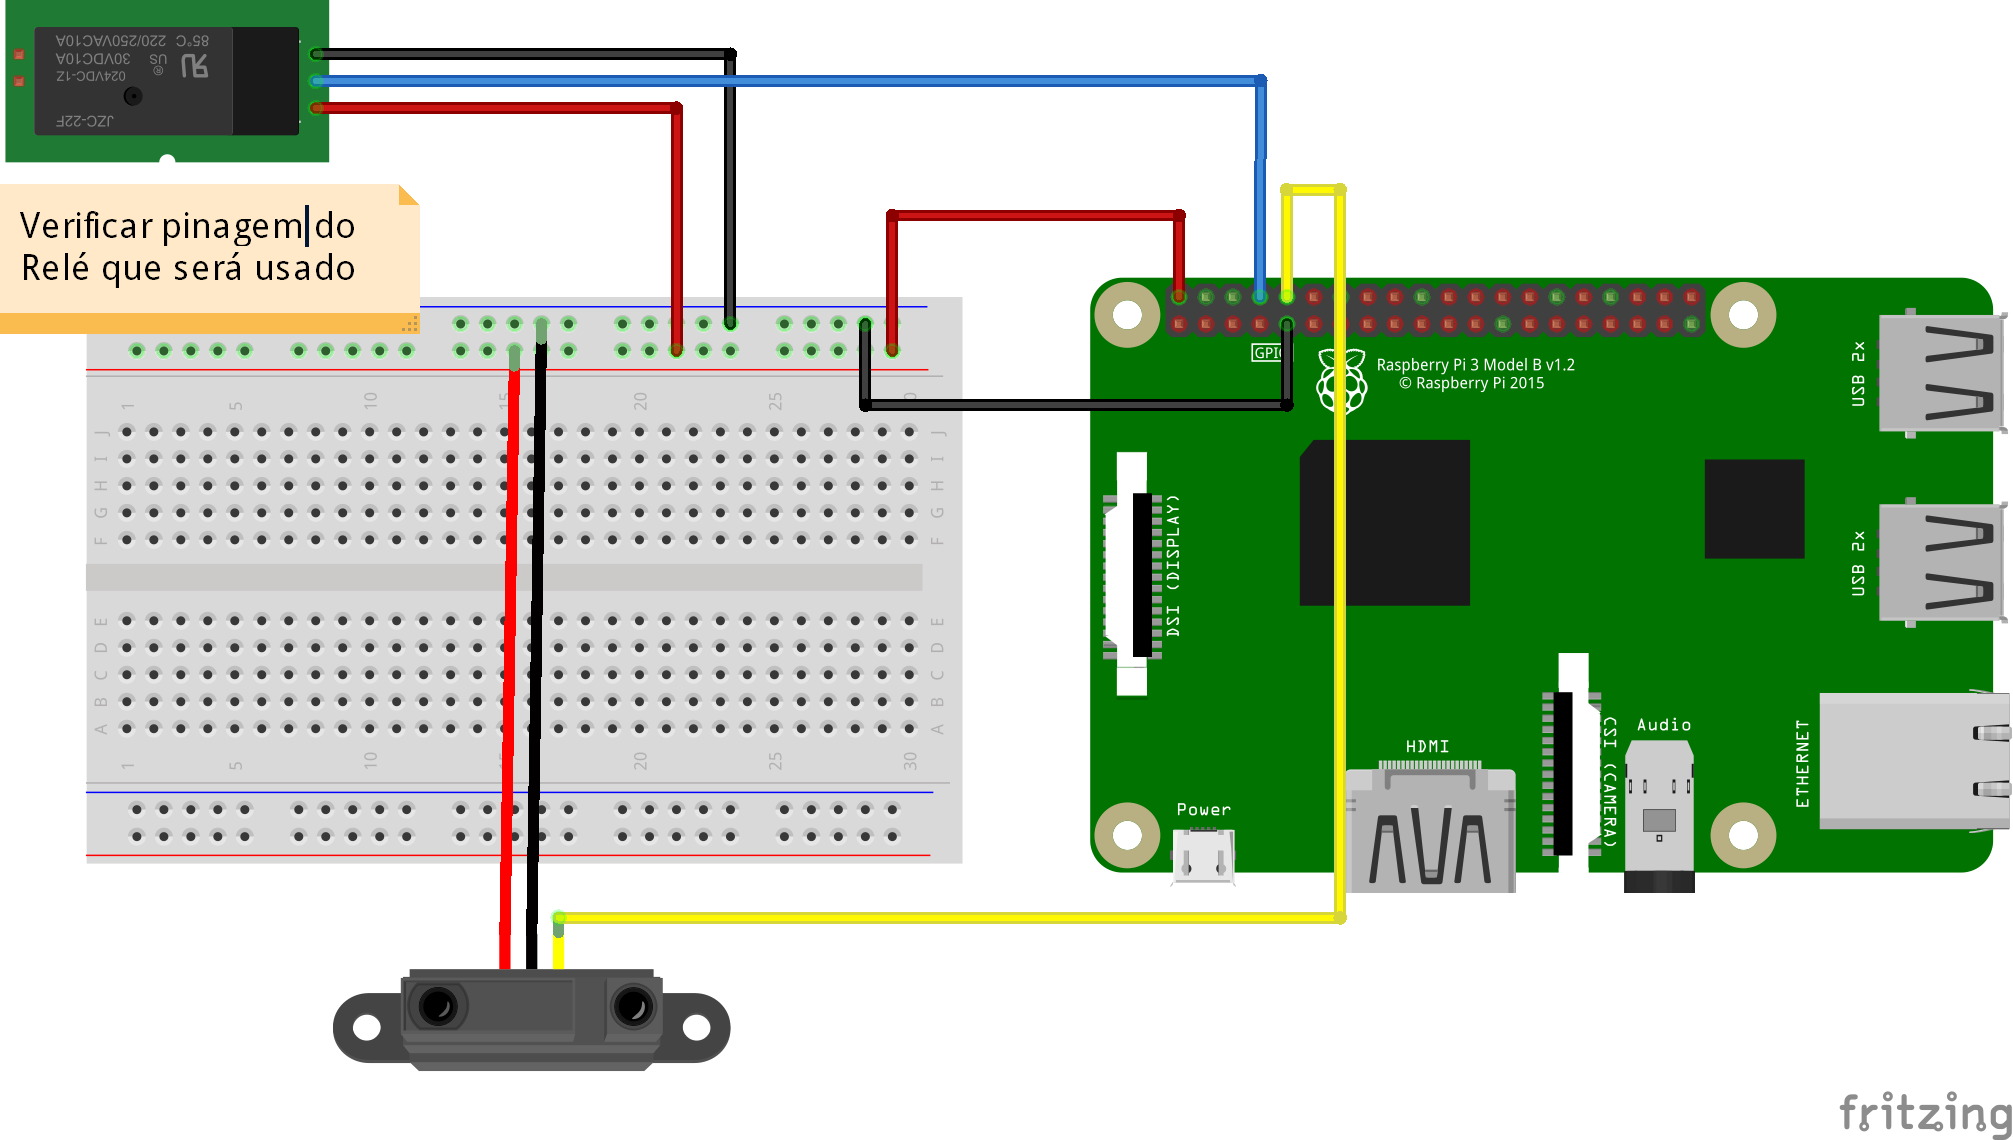
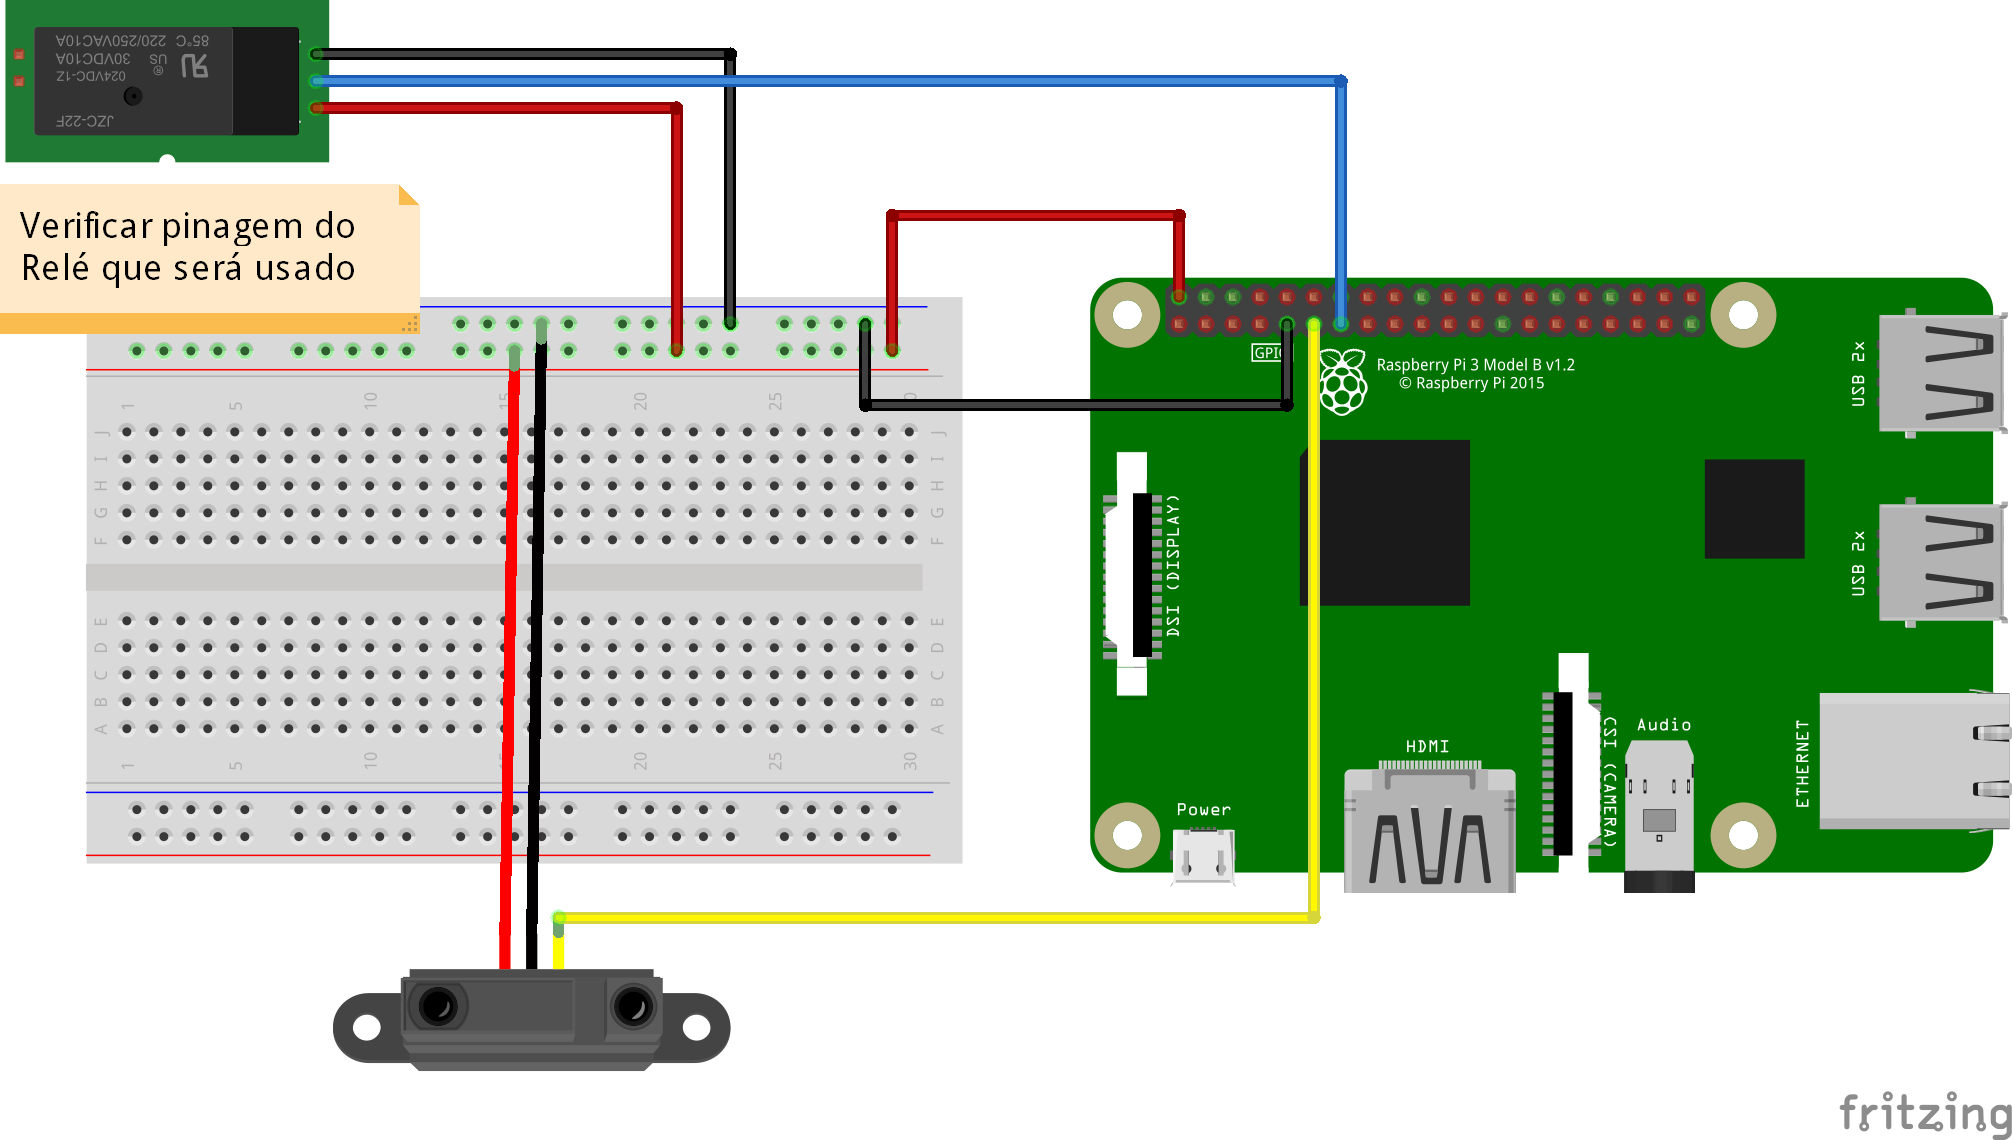
Change pins

Changed region(s): [[0.616, 0.0614, 0.6776, 0.8289]]

diff --git a/src/com/kleberandrade/coronagel/sensors/SensorManager.java b/src/com/kleberandrade/coronagel/sensors/SensorManager.java
@@ -28,10 +28,10 @@ public class SensorManager implements GpioPinListenerDigital {
         LogHelper.write("Configuring sensors");
         gpio = GpioFactory.getInstance();
 
-        inPin = gpio.provisionDigitalInputPin(RaspiPin.GPIO_16);
+        inPin = gpio.provisionDigitalInputPin(RaspiPin.GPIO_00);
         gpio.addListener(this, inPin);
 
-        outPin = gpio.provisionDigitalOutputPin(RaspiPin.GPIO_15, "RELE", PinState.LOW);
+        outPin = gpio.provisionDigitalOutputPin(RaspiPin.GPIO_02, "RELE", PinState.LOW);
     }
 
     @Override
